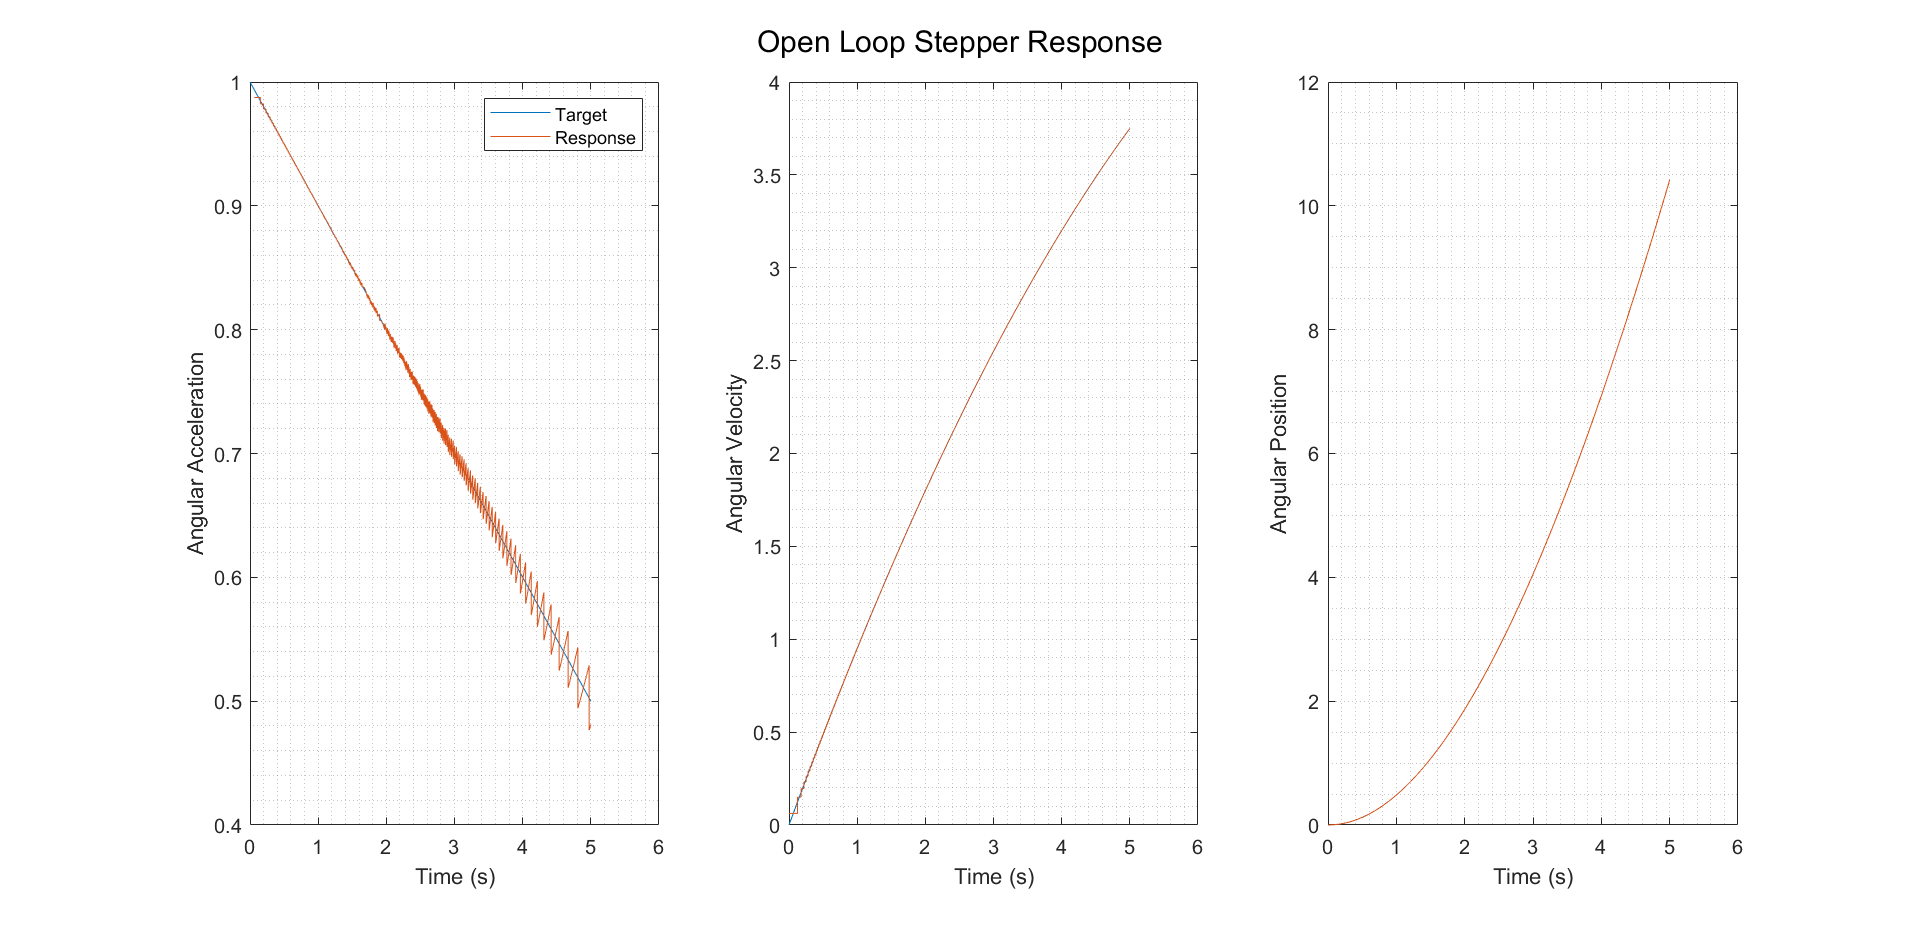
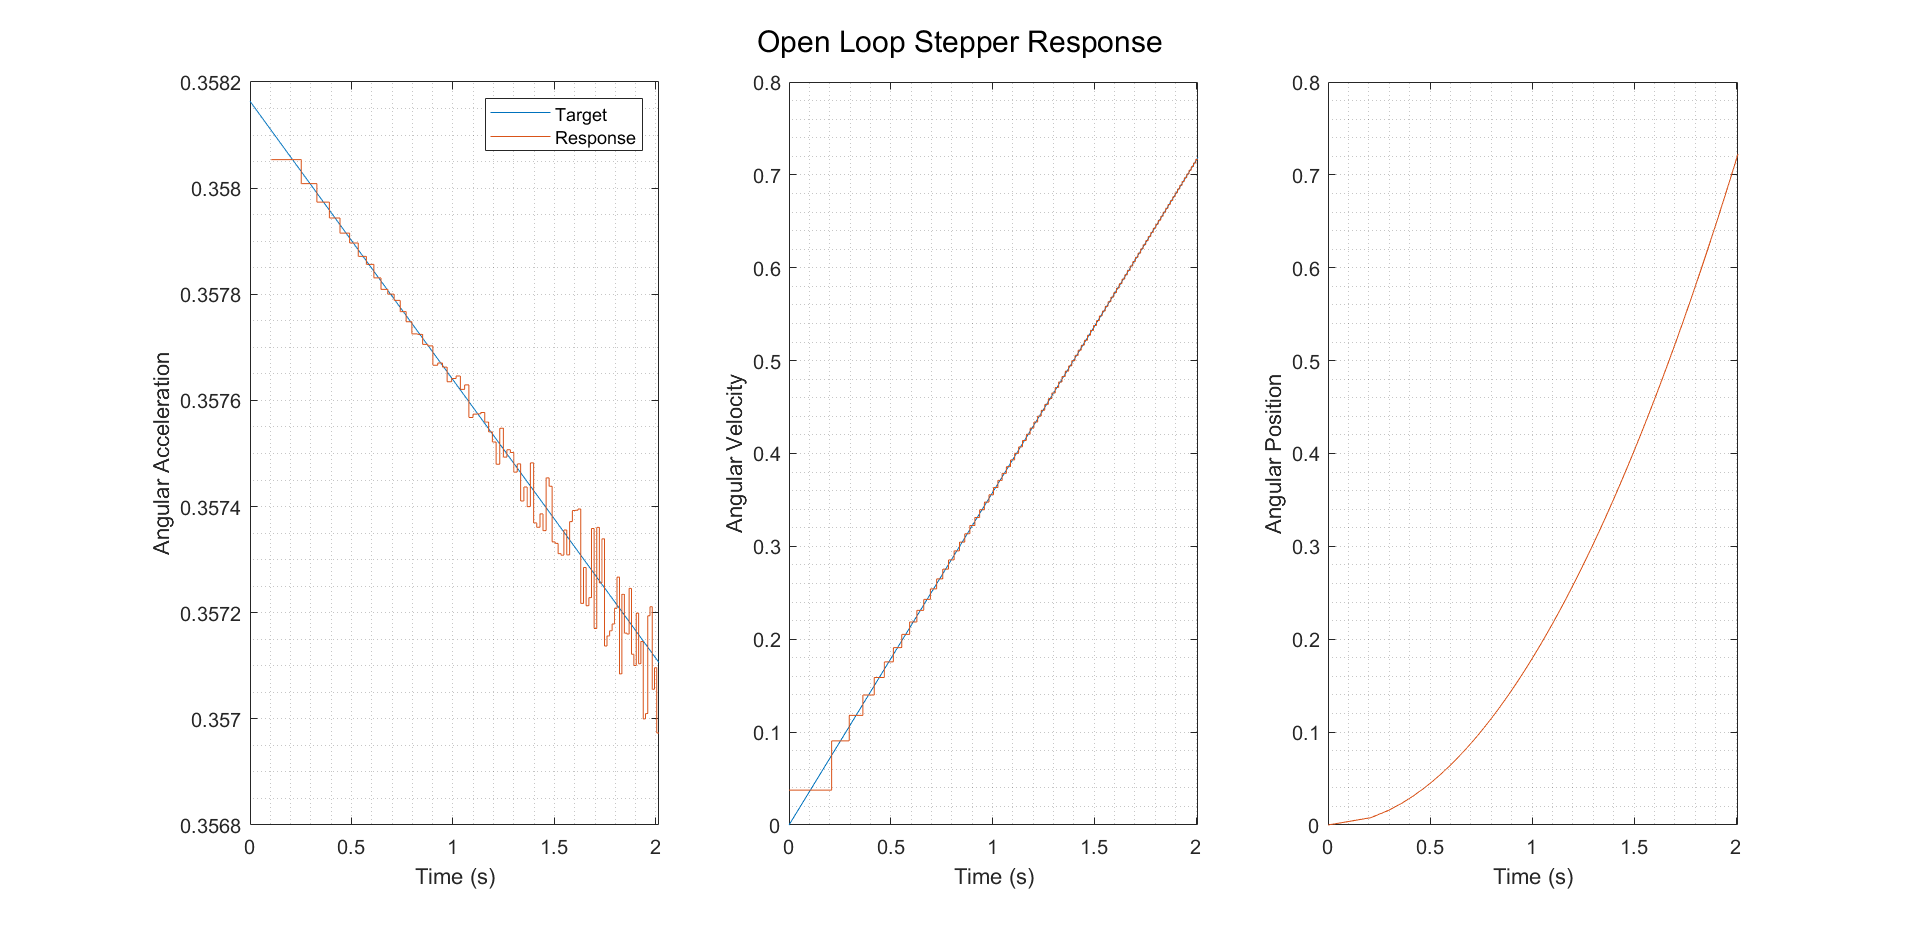
update for cdr

diff --git a/analysis/stepper_control/stepper_control_test.m b/analysis/stepper_control/stepper_control_test.m
@@ -12,10 +12,12 @@ clear; clc; close all
 stepSize = deg2rad(1.8/4);
 % clock frequency of micro controller
 frequency = 16e6;
+tmax = 2;
 % target acceleration curve
-t = 0:0.1:5;
-omegaDots = 1-0.1*t;% 1.5 - 1./(1+exp(-1*t));
-
+% t = 0:0.1:10;
+% omegaDots = cos(2*pi*t)+1;
+load thrusterData
+omegaDots = omegaDots/10;
 %% INIT
 % generate lookup table with interpolation
 interpolant = griddedInterpolant(t, omegaDots);
@@ -35,14 +37,16 @@ thetas = [];
 times = [];
 accels = [];
 
+delays = [];
+
 %% MAIN LOOP
-while tau < t(end)
+while (tau < t(end)) && (tau < tmax)
  % increment step number and get statistics from previous step
  stepNum = stepNum + 1;
  timeDelay = time_delay(stepDelay, frequency);
  omegai = angular_velocity(timeDelay, stepSize);
  omegaDot = interpolant(tau);
- 
+ delays = [delays, stepDelay];
  % get target acceleration and calculate step delay and actual acceleration
  omegaDotNext = interpolant(tau + timeDelay);
  stepDelayNext = step_delay(stepDelay, omegaDotNext, stepSize, frequency);
@@ -68,20 +72,26 @@ subplot(1,3,1)
 plot(t, omegaDots, times, accels)
 hold on
 grid minor
+xlim([0,times(end)])
 xlabel('Time (s)')
 ylabel('Angular Acceleration')
 legend('Target','Response')
 
 subplot(1,3,2)
-plot(t, cumtrapz(t, omegaDots), taus, omegas)
+plot(taus, cumtrapz(taus, interpolant(taus)), taus, omegas)
 hold on
 grid minor
+xlim([0,taus(end)])
 xlabel('Time (s)')
 ylabel('Angular Velocity')
 
 subplot(1,3,3)
-plot(t, cumtrapz(t, cumtrapz(t, omegaDots)), taus, thetas)
+plot(taus, cumtrapz(taus, cumtrapz(taus, interpolant(taus))), taus, thetas)
 hold on
 grid minor
+xlim([0,taus(end)])
 xlabel('Time (s)')
 ylabel('Angular Position')
+
+figure
+plot(delays)
